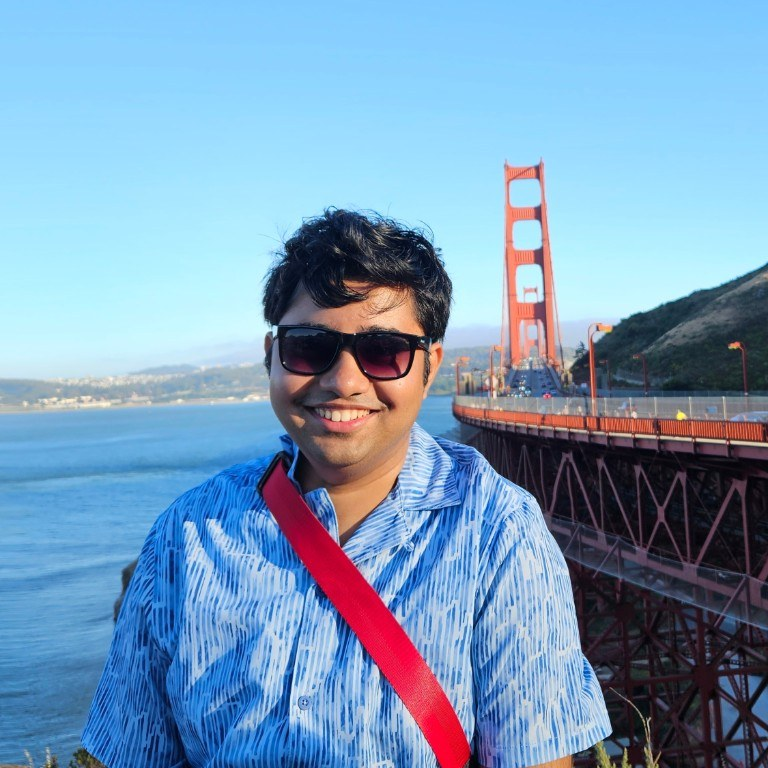
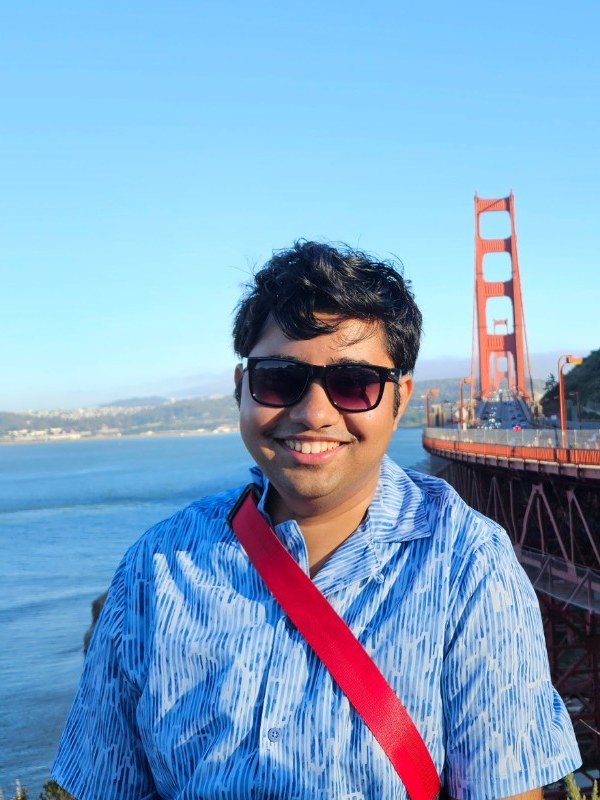
Restore portrait photo frame

diff --git a/assets/css/main.css b/assets/css/main.css
@@ -119,7 +119,7 @@ main.container { padding-top: 56px; padding-bottom: 72px; }
 .hero-role { color: var(--text-muted); margin: 0 0 20px; font-size: 0.98rem; line-height: 1.55; }
 .hero-photo img {
   width: 100%;
-  aspect-ratio: 1 / 1;
+  aspect-ratio: 3 / 4;
   object-fit: cover;
   border-radius: 20px;
   box-shadow: var(--shadow);
